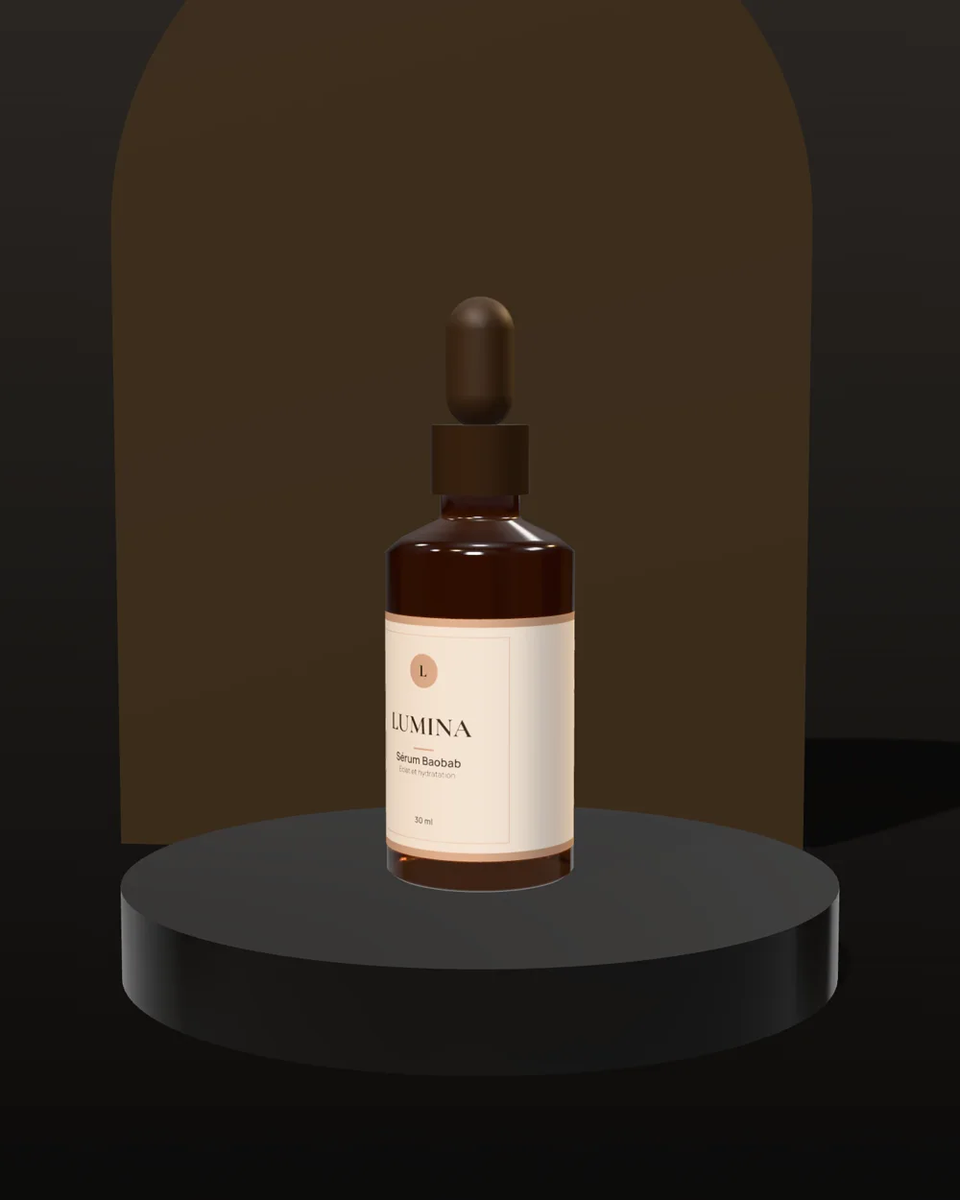
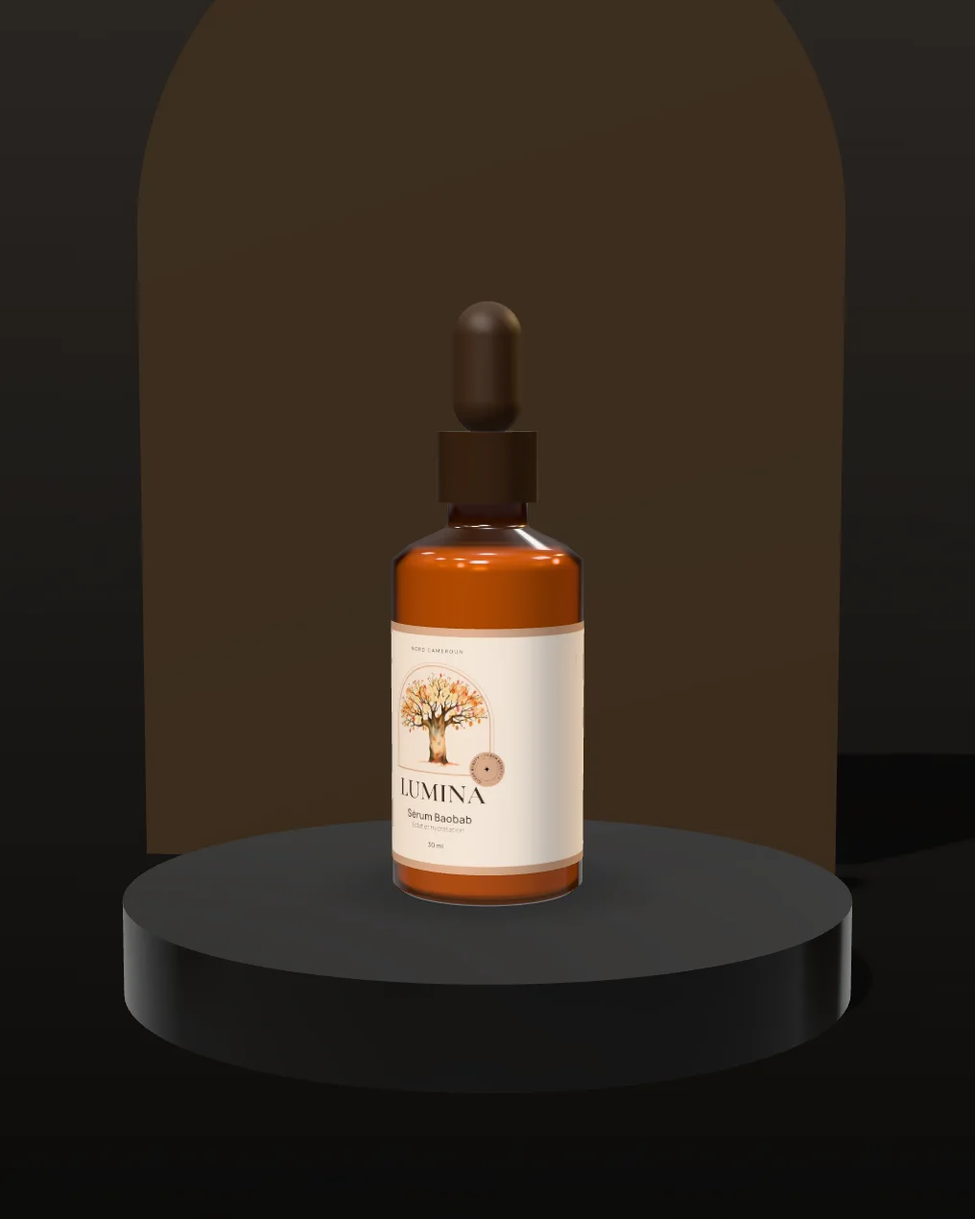
Nouveaux visuels de la page d'accueil et page Exemples
- 17 packs d'exemple redessinés avec le nouveau designer : illustrations sur mesure, compositions pro, sceaux, origine, produit visible
- Rendus 3D, maquettes et visuels de la page d'accueil régénérés ; hero 3D avec illustrations
- Nouvelle page /exemples : brief de l'entrepreneur → image publicitaire + maquette 3D (7 langues, clair/sombre, mobile), liens menu et pied de page, sitemap
- Compteur de contenants mis à jour (119)
- Image IA : nouvelle tentative automatique quand le filtre de sécurité bloque à tort un mot alimentaire

Changed region(s): [[0.403, 0.4368, 0.62, 0.7488], [0.093, 0.1872, 0.155, 0.7176], [0.837, 0.2184, 0.868, 0.7176]]

diff --git a/src/components/landing/showcase.ts b/src/components/landing/showcase.ts
@@ -8,7 +8,7 @@ export interface ShowcaseItem {
   design: Omit<PackagingDesign, "logo">;
 }
 
-export const SHOWCASE: ShowcaseItem[] = [
+const BASE: ShowcaseItem[] = [
   {
     shapeId: "beverage-can",
     prompt: "Un bissap pétillant en canette, très coloré, pour les 20-30 ans",
@@ -180,3 +180,51 @@ export const SHOWCASE: ShowcaseItem[] = [
     },
   },
 ];
+
+/**
+ * Art direction of each example, as the AI designer would choose it: composition, custom
+ * illustration (public/landing/art/NN.webp, generated once with FLUX), seal, origin, visible
+ * product and ad copy.
+ */
+type Extras = Pick<PackagingDesign, "layout" | "motif" | "artStyle" | "artSubject" | "badge" | "origin" | "contentColor" | "adHeadline" | "adCta"> & { palette?: string[] };
+const EXTRAS: Extras[] = [
+  { layout: "vertical", motif: "none", artStyle: "flat", artSubject: "three deep red hibiscus flowers with green leaves and a piece of ginger root", badge: "Pétillant", origin: "Fait à Douala", adHeadline: "Le bissap qui pétille", adCta: "Disponible en boutique" },
+  { layout: "illustrated", motif: "none", artStyle: "engraving", artSubject: "coffee cherries on a branch with leaves and roasted coffee beans", badge: "Torréfié main", origin: "Monts Bamboutos", adHeadline: "Réveillez l'Ouest", adCta: "Commander sur WhatsApp" },
+  { layout: "arch", motif: "none", artStyle: "watercolor", artSubject: "an African baobab tree with its thick trunk, hanging oval fruits and white flowers", badge: "Clean beauty", origin: "Nord Cameroun", contentColor: "#e0b04a", adHeadline: "L'éclat du baobab", adCta: "Découvrir le sérum" },
+  { layout: "label", motif: "botanical", artStyle: "engraving", artSubject: "black tea leaves and tea flowers on a branch", badge: "Feuilles entières", origin: "Hauts plateaux", adHeadline: "Le thé des hauts plateaux", adCta: "Commander maintenant" },
+  { layout: "label", motif: "none", artStyle: "linocut", artSubject: "honeycomb, bees and wild mountain flowers", badge: "100 % pur", origin: "Mont Oku", contentColor: "#f3ead2", adHeadline: "La douceur pure des sommets", adCta: "Commander sur WhatsApp" },
+  { layout: "poster", motif: "dots", artStyle: "mascot", artSubject: "a cheerful cartoon character shaped like a ripe yellow plantain banana, wearing sunglasses, jumping with joy", badge: "Croustillant", origin: "", adHeadline: "Impossible de s'arrêter", adCta: "Disponible partout", palette: ["#FFE500", "#141414", "#00A0E3", "#E6007E"] },
+  { layout: "illustrated", motif: "none", artStyle: "engraving", artSubject: "fresh ginger roots with leaves and lime slices", badge: "Pressé à froid", origin: "Fait au Cameroun", contentColor: "#e8b04a", adHeadline: "Le gingembre, en grand", adCta: "Commander maintenant" },
+  { layout: "vertical", motif: "none", artStyle: "watercolor", artSubject: "a soft swirl of white cream with fresh aloe vera leaves", badge: "Urée 10 %", origin: "", adHeadline: "Des mains réparées", adCta: "En pharmacie" },
+  { layout: "arch", motif: "none", artStyle: "watercolor", artSubject: "pink peony flowers and white blossoms", badge: "", origin: "Eau de parfum", contentColor: "#f6d8d0", adHeadline: "La pivoine, autrement", adCta: "Découvrir le parfum" },
+  { layout: "poster", motif: "none", artStyle: "linocut", artSubject: "moringa branches with small round leaves and seed pods", badge: "100 % naturel", origin: "Nord Cameroun", adHeadline: "L'énergie verte", adCta: "Commander maintenant" },
+  { layout: "arch", motif: "none", artStyle: "engraving", artSubject: "a branch of fig tree with purple figs and green leaves", badge: "Cire végétale", origin: "Coulée main", adHeadline: "Une maison qui sent bon", adCta: "Offrir une bougie" },
+  { layout: "label", motif: "geometric", artStyle: "engraving", artSubject: "sesame plants with seed pods and flowers", badge: "Recette maison", origin: "Yaoundé", adHeadline: "Le goût de grand-mère", adCta: "Commander maintenant" },
+  { layout: "illustrated", motif: "none", artStyle: "flat", artSubject: "a pineapple with its crown of leaves and pineapple rings", badge: "Sans sucre ajouté", origin: "Ananas du Moungo", adHeadline: "Le soleil en brique", adCta: "Disponible en boutique" },
+  { layout: "vertical", motif: "none", artStyle: "watercolor", artSubject: "rosemary sprigs and shea nuts", badge: "Karité", origin: "Soin naturel", adHeadline: "Des cheveux qui respirent", adCta: "Découvrir la gamme" },
+  { layout: "poster", motif: "none", artStyle: "flat", artSubject: "an electric lightning bolt with neon pink and cyan splashes", badge: "Sans crash", origin: "", adHeadline: "Reste concentré", adCta: "Disponible en boutique" },
+  { layout: "minimal", motif: "none", artStyle: "none", artSubject: "", badge: "", origin: "Édition limitée", adHeadline: "Le temps, en or", adCta: "Découvrir le coffret" },
+  { layout: "label", motif: "none", artStyle: "linocut", artSubject: "red chili peppers and white Penja peppercorns on a vine", badge: "Fait main", origin: "Penja, Littoral", contentColor: "#c0391b", adHeadline: "Le feu de Penja", adCta: "Commander sur WhatsApp" },
+];
+
+export const SHOWCASE: (ShowcaseItem & { art?: string })[] = BASE.map((item, i) => {
+  const { palette, ...extras } = EXTRAS[i] ?? {};
+  return {
+    ...item,
+    art: extras.artStyle && extras.artStyle !== "none" ? `/landing/art/${String(i).padStart(2, "0")}.webp` : undefined,
+    design: { ...item.design, ...extras, ...(palette ? { palette } : {}) },
+  };
+});
+
+/** Loads an example's illustration (browser only). */
+export async function loadShowcaseArt(item: { art?: string }): Promise<HTMLImageElement | null> {
+  if (!item.art || typeof Image === "undefined") return null;
+  const img = new Image();
+  img.src = item.art;
+  try {
+    await img.decode();
+    return img;
+  } catch {
+    return null;
+  }
+}

diff --git a/src/lib/i18n/sources/landing.ts b/src/lib/i18n/sources/landing.ts
@@ -16,7 +16,7 @@ export const LANDING = {
       micro: "Paiement par Mobile Money : MTN MoMo et Orange Money. Dès 3 000 FCFA par mois, satisfait ou remboursé 7 jours.",
       proof: ["Mentions FR/EN", "PDF 300 dpi", "Maquette 3D"],
     },
-    stats: [["97", "formes d'emballage"], ["84", "styles visuels"], ["58", "polices libres de droits"], ["300 dpi", "PDF prêt à imprimer"]],
+    stats: [["119", "formes d'emballage"], ["84", "styles visuels"], ["58", "polices libres de droits"], ["300 dpi", "PDF prêt à imprimer"]],
     video: { title: "Edify en action, en 24 secondes", sub: "Une phrase, un packaging complet, un fichier prêt pour l'imprimeur et des visuels pour le lancer." },
     cats: {
       title: "Un seul outil pour tous vos emballages",
@@ -38,7 +38,7 @@ export const LANDING = {
       aiSheet: [["Brief", "« Café arabica de l'Ouest, esprit artisanal »"], ["Contenant", "Sachet café à valve, 250 g"], ["Polices", "Fraunces et DM Sans"]],
       colours: "Couleurs",
       ad: ["Visuels publicitaires", "Votre produit mis en scène en studio, aux formats Instagram, WhatsApp, story et bannière."],
-      numbers: [["97", "formes d'emballage"], ["84", "styles visuels"], ["58", "polices libres de droits"]],
+      numbers: [["119", "formes d'emballage"], ["84", "styles visuels"], ["58", "polices libres de droits"]],
       ar: ["Réalité augmentée", "Posez votre packaging à taille réelle sur votre table, depuis votre téléphone, avant de l'imprimer."],
       packAlt: ["Bouteille en 3D", "Canette mise en scène pour une publicité"],
       dielineAlt: "Tracé de découpe d'une boîte pliante",
@@ -79,7 +79,7 @@ export const LANDING = {
             "Maquette 3D (mockup) et image publicitaire",
             "PDF prêt à imprimer : fonds perdus et traits de coupe",
             "Mentions obligatoires bilingues et vrai code-barres EAN-13",
-            "97 contenants, 84 styles et 58 polices",
+            "119 contenants, 84 styles et 58 polices",
             "Retouches et téléchargements illimités",
           ],
         },
@@ -147,7 +147,7 @@ export const LANDING = {
       micro: "Pay with Mobile Money: MTN MoMo and Orange Money. From 3,000 FCFA a month, 7-day money-back guarantee.",
       proof: ["FR/EN labels", "300 dpi PDF", "3D mockup"],
     },
-    stats: [["97", "packaging shapes"], ["84", "visual styles"], ["58", "royalty-free fonts"], ["300 dpi", "print-ready PDF"]],
+    stats: [["119", "packaging shapes"], ["84", "visual styles"], ["58", "royalty-free fonts"], ["300 dpi", "print-ready PDF"]],
     video: { title: "Edify in action, in 24 seconds", sub: "One sentence, a complete pack, a print-ready file and visuals to launch it." },
     cats: {
       title: "One tool for all your packaging",
@@ -169,7 +169,7 @@ export const LANDING = {
       aiSheet: [["Brief", "“West Cameroon arabica, artisanal feel”"], ["Container", "Coffee pouch with valve, 250 g"], ["Fonts", "Fraunces and DM Sans"]],
       colours: "Colours",
       ad: ["Ad visuals", "Your product staged in a studio, in Instagram, WhatsApp, story and banner formats."],
-      numbers: [["97", "packaging shapes"], ["84", "visual styles"], ["58", "royalty-free fonts"]],
+      numbers: [["119", "packaging shapes"], ["84", "visual styles"], ["58", "royalty-free fonts"]],
       ar: ["Augmented reality", "Place your pack at real size on your table, from your phone, before printing it."],
       packAlt: ["3D bottle", "Can staged for an ad"],
       dielineAlt: "Die-line of a folding box",
@@ -210,7 +210,7 @@ export const LANDING = {
             "3D mockup and ad visual",
             "Print-ready PDF with bleed and crop marks",
             "Bilingual mandatory label copy and a real EAN-13 barcode",
-            "97 containers, 84 styles and 58 fonts",
+            "119 containers, 84 styles and 58 fonts",
             "Unlimited edits and downloads",
           ],
         },

diff --git a/src/app/dev-renders/DevRenders.tsx b/src/app/dev-renders/DevRenders.tsx
@@ -7,7 +7,7 @@
 //   /dev-renders?mode=ad&i=1&scene=podium → advertising visual
 import React, { useEffect, useState } from "react";
 import { ALL_CATALOG_SHAPES } from "@/lib/catalog/shapes";
-import { SHOWCASE } from "@/components/landing/showcase";
+import { SHOWCASE, loadShowcaseArt } from "@/components/landing/showcase";
 
 export function DevRenders() {
   const [items, setItems] = useState<{ key: string; url: string }[]>([]);
@@ -25,7 +25,7 @@ export function DevRenders() {
       const label = q.has("label")
         ? { ingredients: "Eau, fleurs d'hibiscus 12 %, sucre de canne, menthe / Water, hibiscus flowers 12%, cane sugar, mint", usage: "Bien agiter. Servir frais. / Shake well. Serve chilled.", barcode: "4006381333931", production: "2026-09-26", expiry: "2027-03-26", price: "1 500 FCFA", extra: "Fabriqué à Douala, Cameroun / Made in Douala, Cameroon" }
         : {};
-      const design = { ...item.design, ...label, logo: null };
+      const design = { ...item.design, ...label, logo: null, art: await loadShowcaseArt(item) };
       if (mode === "turntable") {
         const n = Number(q.get("n") ?? 48);
         for (let f = 0; f < n && !cancelled; f++) {
@@ -77,7 +77,7 @@ export function DevRenders() {
           const it = SHOWCASE[i];
           const sh = ALL_CATALOG_SHAPES.find((s) => s.id === it.shapeId);
           if (!sh) continue;
-          const png = await renderShowcase(sh, { ...it.design, logo: null }, size, -0.45);
+          const png = await renderShowcase(sh, { ...it.design, logo: null, art: await loadShowcaseArt(it) }, size, -0.45);
           if (!png) continue;
           const img = new Image();
           img.src = png;
@@ -87,6 +87,10 @@ export function DevRenders() {
           c.getContext("2d")!.drawImage(img, 0, 0);
           push(`pack-${String(i).padStart(2, "0")}`, c.toDataURL("image/webp", 0.86));
         }
+      } else if (mode === "scenes") {
+        const { AD_DECORS } = await import("@/lib/three/adRender");
+        const decor = AD_DECORS.find((x) => x.id === (q.get("decor") ?? "ingredients")) ?? AD_DECORS[0];
+        document.body.dataset.prompts = JSON.stringify(SHOWCASE.map((it) => decor.prompt({ ...it.design, logo: null })));
       } else if (mode === "ad") {
         const { renderAd } = await import("@/lib/three/adRender");
         const url = await renderAd({
@@ -97,14 +101,24 @@ export function DevRenders() {
           withCopy: q.get("copy") !== "0",
           seed: Number(q.get("seed") ?? 2),
           scale: Number(q.get("scale") ?? 0.75),
+          backgroundUrl: q.get("bg"),
         });
-        push("ad", url);
+        if (q.has("webp")) {
+          const img = new Image();
+          img.src = url;
+          await img.decode();
+          const c = document.createElement("canvas");
+          c.width = img.width;
+          c.height = img.height;
+          c.getContext("2d")!.drawImage(img, 0, 0);
+          push("ad", c.toDataURL("image/webp", 0.84));
+        } else push("ad", url);
       } else {
         for (let i = 0; i < SHOWCASE.length && !cancelled; i++) {
           const it = SHOWCASE[i];
           const sh = ALL_CATALOG_SHAPES.find((s) => s.id === it.shapeId);
           if (!sh) continue;
-          const png = await renderShowcase(sh, { ...it.design, logo: null }, 1024, -0.35);
+          const png = await renderShowcase(sh, { ...it.design, logo: null, art: await loadShowcaseArt(it) }, 1024, -0.35);
           if (!png) continue;
           const img = new Image();
           img.src = png;

diff --git a/scripts/gen-showcase-art.ts b/scripts/gen-showcase-art.ts
@@ -1,0 +1,35 @@
+import { readFileSync, writeFileSync, mkdirSync } from "fs";
+for (const l of readFileSync(".env.local", "utf8").split(/\r?\n/)) { const i = l.indexOf("="); if (i > 0 && !l.startsWith("#")) process.env[l.slice(0, i)] = l.slice(i + 1).trim(); }
+const OUT = process.argv[2];
+const ONLY = process.argv[3]?.split(",").map(Number);
+(async () => {
+  const { SHOWCASE } = await import("../src/components/landing/showcase");
+  const { colorName } = await import("../src/lib/ai/colorNames");
+  const { resolveColors, luminance } = await import("../src/lib/artwork/draw");
+  const STYLES: Record<string, string> = {
+    engraving: "vintage botanical engraving illustration, fine etching and cross-hatching lines, detailed scientific illustration, printed label artwork",
+    flat: "bold flat vector illustration, clean geometric shapes, modern packaging illustration, flat colours, no gradients",
+    watercolor: "delicate watercolour illustration, soft washes and pigment blooms, elegant, hand painted",
+    linocut: "bold linocut relief print illustration, carved texture, strong graphic contrast, African textile inspired shapes",
+    photo: "appetizing high-end macro photograph, studio lighting, fresh, glistening, ultra detailed, commercial food photography",
+    papercut: "layered paper-cut art illustration, soft shadows between paper layers, handcrafted",
+    mascot: "friendly cartoon mascot character illustration, bold clean outlines, playful, vector style, full body",
+    lineart: "minimal elegant continuous line art illustration, thin confident lines",
+  };
+  mkdirSync(OUT, { recursive: true });
+  for (let i = 0; i < SHOWCASE.length; i++) {
+    const d = SHOWCASE[i].design;
+    if (!d.artStyle || d.artStyle === "none" || (ONLY && !ONLY.includes(i))) continue;
+    const { bg, ink, accent, extra } = resolveColors(d.palette);
+    const dark = luminance(bg) <= 0.45;
+    const ground = d.artStyle === "photo" ? `on a plain seamless ${colorName(bg)} background` : dark ? "on a pure solid black background" : "on a pure solid white background";
+    const prompt = `${STYLES[d.artStyle]}: ${d.artSubject}. Colour palette limited to ${[accent, extra, ink].map(colorName).join(", ")}. Isolated subject ${ground}, centred, generous empty margin around it. Packaging label artwork, award-winning, high detail. No text, no letters, no words, no numbers, no logo, no frame, no border, no packaging, no bottle, no mockup.`;
+    const res = await fetch(`https://api.cloudflare.com/client/v4/accounts/${process.env.CLOUDFLARE_ACCOUNT_ID}/ai/run/@cf/black-forest-labs/flux-1-schnell`, {
+      method: "POST", headers: { Authorization: `Bearer ${process.env.CLOUDFLARE_API_TOKEN}`, "Content-Type": "application/json" }, body: JSON.stringify({ prompt, steps: 8 }),
+    });
+    const j = await res.json();
+    if (!j?.result?.image) { console.log(i, "FAIL", JSON.stringify(j).slice(0, 200)); continue; }
+    writeFileSync(`${OUT}/${String(i).padStart(2, "0")}.jpg`, Buffer.from(j.result.image, "base64"));
+    console.log(i, d.brandName, d.artStyle, dark ? "(noir)" : "(blanc)");
+  }
+})();

diff --git a/src/lib/i18n/sources/site.ts b/src/lib/i18n/sources/site.ts
@@ -24,6 +24,7 @@ export const SITE = {
       pay: "Paiement Mobile Money : MTN MoMo · Orange Money",
     },
     toggles: { language: "Langue du site", theme: { system: "Thème : système", light: "Thème : clair", dark: "Thème : sombre" }, change: "Changer" },
+    examples: {"kicker":"Exemples réels","title":"Ce que l'IA d'Edify livre à partir de quelques mots","intro":"Chaque exemple part du brief tapé par un entrepreneur. L'IA a choisi seule le contenant, la composition, l'illustration, les couleurs, les textes et l'image publicitaire.","brief":"Le brief","adAlt":"Image publicitaire","packAlt":"Packaging","ctaTitle":"À votre tour","ctaText":"Répondez à quelques questions sur votre produit : votre packaging, sa maquette 3D et votre image publicitaire sont prêts en une minute.","cta":"Créer mon packaging","note":"Marques fictives créées pour la démonstration."},
     cluster: { label: "Exemples de packagings conçus avec Edify", packAlt: "Packaging {brand} généré avec Edify" },
     universes: { cafe: "Univers café", agrumes: "Univers fruité", piquant: "Univers piquant", beaute: "Univers beauté", miel: "Univers miel", neon: "Univers néon" },
     video: { demo: "démo", soundOff: "Activer le son", soundOn: "Son activé", pause: "Mettre en pause", play: "Lire la vidéo", fullscreen: "Plein écran", aria: "Démonstration d'Edify : de la description du produit au fichier d'impression" },
@@ -75,6 +76,7 @@ export const SITE = {
       pay: "Mobile Money payment: MTN MoMo · Orange Money",
     },
     toggles: { language: "Site language", theme: { system: "Theme: system", light: "Theme: light", dark: "Theme: dark" }, change: "Change" },
+    examples: {"kicker":"Real examples","title":"What Edify's AI delivers from a few words","intro":"Each example starts from the brief an entrepreneur typed. The AI chose the container, layout, illustration, colours, copy and ad visual on its own.","brief":"The brief","adAlt":"Ad visual","packAlt":"Packaging","ctaTitle":"Your turn","ctaText":"Answer a few questions about your product: your packaging, its 3D mockup and your ad visual are ready in a minute.","cta":"Create my packaging","note":"Fictional brands created for the demo."},
     cluster: { label: "Packaging examples designed with Edify", packAlt: "{brand} packaging generated with Edify" },
     universes: { cafe: "Coffee universe", agrumes: "Fruity universe", piquant: "Spicy universe", beaute: "Beauty universe", miel: "Honey universe", neon: "Neon universe" },
     video: { demo: "demo", soundOff: "Turn sound on", soundOn: "Sound on", pause: "Pause", play: "Play video", fullscreen: "Full screen", aria: "Edify demo: from product description to print file" },

diff --git a/src/components/landing/ExamplesGallery.tsx b/src/components/landing/ExamplesGallery.tsx
@@ -1,0 +1,58 @@
+"use client";
+
+import React from "react";
+import { ArrowRight, Sparkles } from "lucide-react";
+import { useCopy } from "@/components/i18n/LangProvider";
+import { LandingNav } from "./LandingClient";
+import { SiteFooter } from "./SiteChrome";
+import { SHOWCASE } from "./showcase";
+
+const pad = (i: number) => String(i).padStart(2, "0");
+
+/** /exemples: each brief as typed by an entrepreneur, and what Edify's AI delivered. */
+export function ExamplesGallery() {
+  const t = useCopy("site").examples;
+  const prompts = useCopy("showcase").prompts;
+  return (
+    <div className="lp">
+      <LandingNav />
+      <main className="lp-page lp-examples">
+        <div className="lp-wrap">
+          <p className="lp-examples-kicker"><Sparkles className="w-4 h-4" /> {t.kicker}</p>
+          <h1 className="lp-h2">{t.title}</h1>
+          <p className="lp-sub">{t.intro}</p>
+
+          <div className="lp-examples-grid">
+            {SHOWCASE.map((item, i) => (
+              <article key={item.design.brandName} className="lp-example">
+                <div className="lp-example-media">
+                  {/* eslint-disable-next-line @next/next/no-img-element */}
+                  <img src={`/landing/examples/${pad(i)}.webp`} alt={`${t.adAlt} ${item.design.brandName}`} loading={i < 3 ? "eager" : "lazy"} decoding="async" width={819} height={1024} />
+                  {/* eslint-disable-next-line @next/next/no-img-element */}
+                  <img className="lp-example-pack" src={`/landing/packs/${pad(i)}.webp`} alt={`${t.packAlt} ${item.design.brandName}`} loading="lazy" decoding="async" width={720} height={720} />
+                </div>
+                <div className="lp-example-body">
+                  <span className="lp-example-label">{t.brief}</span>
+                  <p className="lp-example-prompt">« {prompts[i] ?? item.prompt} »</p>
+                  <p className="lp-example-brand">
+                    <strong>{item.design.brandName}</strong> · {item.design.productName}
+                  </p>
+                </div>
+              </article>
+            ))}
+          </div>
+
+          <section className="lp-examples-cta">
+            <h2>{t.ctaTitle}</h2>
+            <p>{t.ctaText}</p>
+            <a href="/commencer" className="lp-btn lp-btn-magenta lp-btn-xl">
+              {t.cta} <ArrowRight className="w-5 h-5" />
+            </a>
+            <small>{t.note}</small>
+          </section>
+        </div>
+      </main>
+      <SiteFooter />
+    </div>
+  );
+}

diff --git a/src/styles/landing.css b/src/styles/landing.css
@@ -1157,3 +1157,22 @@
 .lp-contact-whatsapp { display: flex; flex-wrap: wrap; align-items: center; gap: 12px; margin: 0 0 26px !important; color: var(--grey); font-size: 14.5px; }
 .lp-contact-whatsapp .lp-btn { background: #1faa59; color: #fff; }
 .lp-contact-whatsapp .lp-btn:hover { background: #178a47; }
+
+/* ── /exemples ─────────────────────────────────────────────── */
+.lp-examples .lp-sub { max-width: 720px; }
+.lp-examples-kicker { display: inline-flex; align-items: center; gap: 6px; color: var(--m); font-weight: 800; font-size: 13px; letter-spacing: 0.08em; text-transform: uppercase; margin-bottom: 10px; }
+.lp-examples-grid { margin-top: 36px; display: grid; grid-template-columns: repeat(auto-fill, minmax(min(100%, 300px), 1fr)); gap: 22px; }
+.lp-example { border-radius: 24px; overflow: hidden; background: var(--surface, #fff); border: 1.5px solid var(--line); display: flex; flex-direction: column; transition: transform 0.25s ease, box-shadow 0.25s ease; }
+.lp-example:hover { transform: translateY(-4px); box-shadow: 0 18px 40px rgba(0, 0, 0, 0.12); }
+.lp-example-media { position: relative; aspect-ratio: 4 / 5; background: var(--soft, #f3f3f1); }
+.lp-example-media > img:first-child { width: 100%; height: 100%; object-fit: cover; display: block; }
+.lp-example-pack { position: absolute; right: 10px; bottom: 10px; width: 34%; aspect-ratio: 1; border-radius: 16px; background: rgba(255, 255, 255, 0.92); box-shadow: 0 8px 24px rgba(0, 0, 0, 0.18); object-fit: contain; padding: 4px; }
+.lp-example-body { padding: 16px 18px 18px; display: grid; gap: 6px; }
+.lp-example-label { font-size: 11px; font-weight: 800; letter-spacing: 0.08em; text-transform: uppercase; color: var(--grey); }
+.lp-example-prompt { font-size: 15px; line-height: 1.45; font-weight: 600; }
+.lp-example-brand { font-size: 13px; color: var(--grey); }
+.lp-example-brand strong { color: var(--k); }
+.lp-examples-cta { margin: 56px auto 24px; max-width: 640px; text-align: center; display: grid; gap: 14px; justify-items: center; }
+.lp-examples-cta h2 { font-family: var(--display); font-size: clamp(1.8rem, 4vw, 2.6rem); letter-spacing: -0.03em; }
+.lp-examples-cta p { color: var(--grey); }
+.lp-examples-cta small { color: var(--grey); font-size: 12px; }

diff --git a/src/app/api/ai-image/route.ts b/src/app/api/ai-image/route.ts
@@ -65,15 +65,23 @@ export async function POST(req: Request) {
       "Photorealistic, shot on a medium-format camera, 85 mm lens, shallow depth of field, rich textures, premium commercial campaign, high detail. No product, no packaging, no bottle, no box, no text, no people, no logo.";
   }
 
-  try {
+  const run = async (p: string) => {
     const res = await fetch(`https://api.cloudflare.com/client/v4/accounts/${account}/ai/run/${MODEL}`, {
       method: "POST",
       signal: AbortSignal.timeout(45_000),
       headers: { Authorization: `Bearer ${token}`, "Content-Type": "application/json" },
       // FLUX schnell on Workers AI accepts only prompt and steps (a seed is rejected).
-      body: JSON.stringify({ prompt, steps: 8 }),
+      body: JSON.stringify({ prompt: p, steps: 8 }),
     });
-    const json = await res.json().catch(() => null);
+    return { res, json: await res.json().catch(() => null) };
+  };
+
+  try {
+    let { res, json } = await run(prompt);
+    // The safety filter sometimes flags innocent food words ("juicy", "ripe"…): retry once softened.
+    if (!json?.result?.image && JSON.stringify(json?.errors ?? "").includes("NSFW")) {
+      ({ res, json } = await run(prompt.replace(/(juicy|ripe|luscious|succulent|naked|bare|hot|sexy|lush|moist|creamy|dripping)s*/gi, "")));
+    }
     const image = json?.result?.image;
     await logAiEvent(user.id, "image", "cloudflare", !!(res.ok && image));
     if (!res.ok || !image) {

diff --git a/src/components/landing/Hero3D.tsx b/src/components/landing/Hero3D.tsx
@@ -12,7 +12,7 @@ import { RoundedBoxGeometry } from "three/examples/jsm/geometries/RoundedBoxGeom
 import { buildPackaging } from "@/lib/three/packagingModels";
 import { loadDesignFonts } from "@/lib/artwork/draw";
 import { ALL_CATALOG_SHAPES } from "@/lib/catalog/shapes";
-import { SHOWCASE } from "./showcase";
+import { SHOWCASE, loadShowcaseArt } from "./showcase";
 import type { LandingTheme } from "./themes";
 
 const CMYK = { c: "#00a0e3", m: "#e6007e", y: "#ffe500", k: "#141414" };
@@ -65,7 +65,7 @@ export function Hero3D({ theme, onReady }: { theme: LandingTheme; onReady: () =>
         if (disposed) return;
         const obj = buildPackaging(
           { model: shape.model, lengthMm: shape.lengthMm, widthMm: shape.widthMm, heightMm: shape.heightMm, material: shape.material },
-          { ...item.design, logo: null }
+          { ...item.design, logo: null, art: await loadShowcaseArt(item) }
         );
         obj.scale.multiplyScalar(slot.s);
         const g = new THREE.Group();

diff --git a/src/app/sitemap.ts b/src/app/sitemap.ts
@@ -3,5 +3,14 @@ import type { MetadataRoute } from "next";
 const SITE = process.env.NEXT_PUBLIC_SITE_URL ?? "http://localhost:3000";
 
 export default function sitemap(): MetadataRoute.Sitemap {
-  return [{ url: SITE, lastModified: new Date(), changeFrequency: "weekly", priority: 1 }];
+  const now = new Date();
+  return [
+    { url: SITE, lastModified: now, changeFrequency: "weekly", priority: 1 },
+    { url: `${SITE}/exemples`, lastModified: now, changeFrequency: "weekly", priority: 0.9 },
+    { url: `${SITE}/commencer`, lastModified: now, changeFrequency: "monthly", priority: 0.8 },
+    { url: `${SITE}/contact`, lastModified: now, changeFrequency: "yearly", priority: 0.4 },
+    { url: `${SITE}/mentions-legales`, lastModified: now, changeFrequency: "yearly", priority: 0.2 },
+    { url: `${SITE}/confidentialite`, lastModified: now, changeFrequency: "yearly", priority: 0.2 },
+    { url: `${SITE}/cgu`, lastModified: now, changeFrequency: "yearly", priority: 0.2 },
+  ];
 }

diff --git a/src/lib/three/adRender.ts b/src/lib/three/adRender.ts
@@ -335,8 +335,8 @@ export async function renderAd(opts: AdOptions): Promise<string> {
     const camera = new THREE.PerspectiveCamera(aspect < 1 ? 32 : 26, aspect, 0.01, 100);
     const target = new THREE.Vector3(0, productY + 0.5 * (withCopy && aspect <= 1 ? 0.78 : 0.62), 0);
     const productHeight = size.y * scale;
-    target.y = productY + productHeight * (withCopy && aspect <= 1 ? 0.84 : 0.48);
-    const dist = (aspect < 1 ? 3.6 : 3.0) + (withCopy && aspect <= 1 ? 1.05 : 0);
+    target.y = productY + productHeight * (withCopy && aspect <= 1 ? 0.74 : 0.48);
+    const dist = (aspect < 1 ? 3.6 : 3.0) + (withCopy && aspect <= 1 ? 0.45 : 0);
     const yaw = 0.18 + (rand(11) - 0.5) * 0.25;
     camera.position.set(Math.sin(yaw) * dist, target.y + 0.35, Math.cos(yaw) * dist);
     camera.lookAt(target);

diff --git a/src/components/landing/LandingClient.tsx b/src/components/landing/LandingClient.tsx
@@ -100,7 +100,7 @@ function applyThemeToPage(t: LandingTheme, label: string) {
 
 // ─── Navigation ──────────────────────────────────────────────────────────────
 
-const LINK_HREFS = ["/#comment", "/#fonctionnalites", "/#exemples", "/#tarifs", "/#faq"];
+const LINK_HREFS = ["/#comment", "/#fonctionnalites", "/exemples", "/#tarifs", "/#faq"];
 
 export function LandingNav() {
   const t = useCopy("site").nav;
